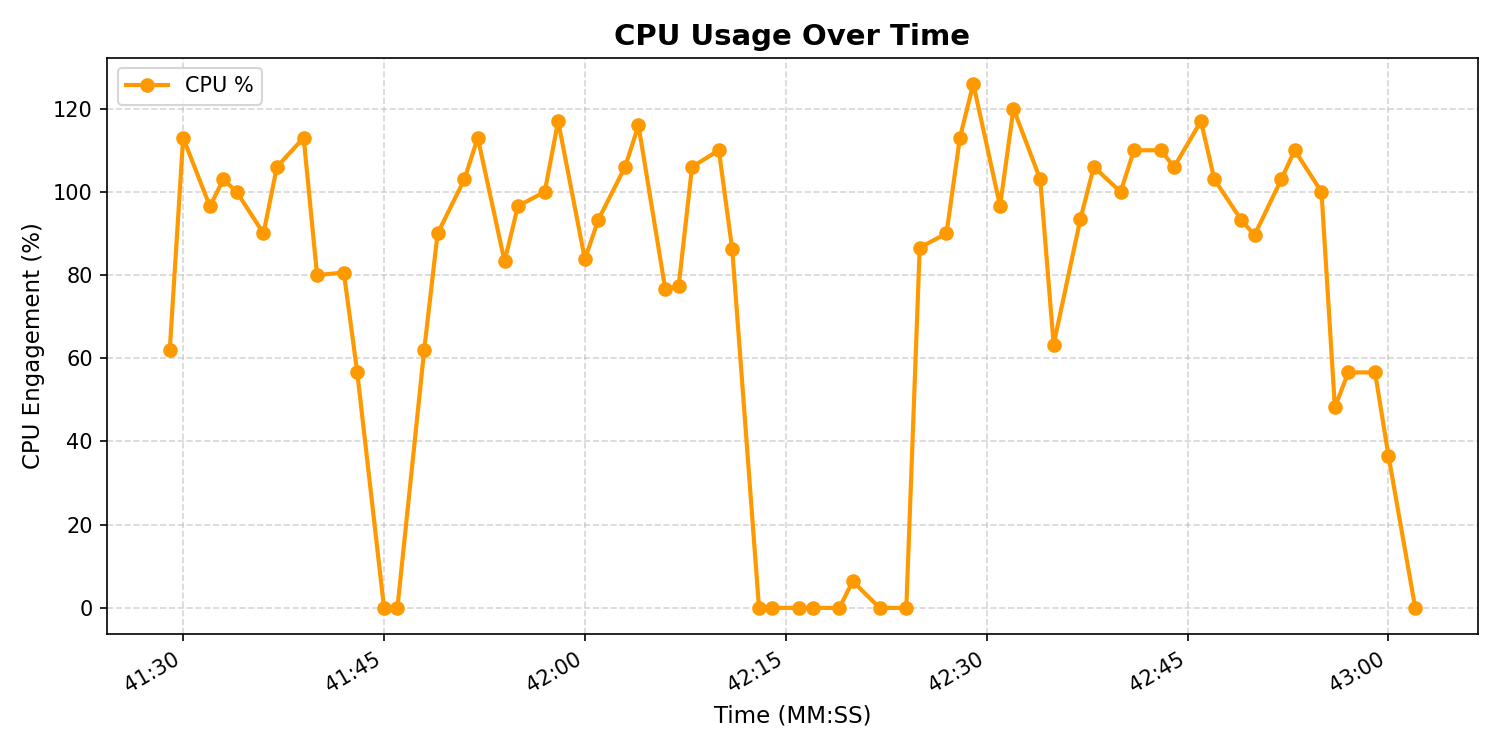
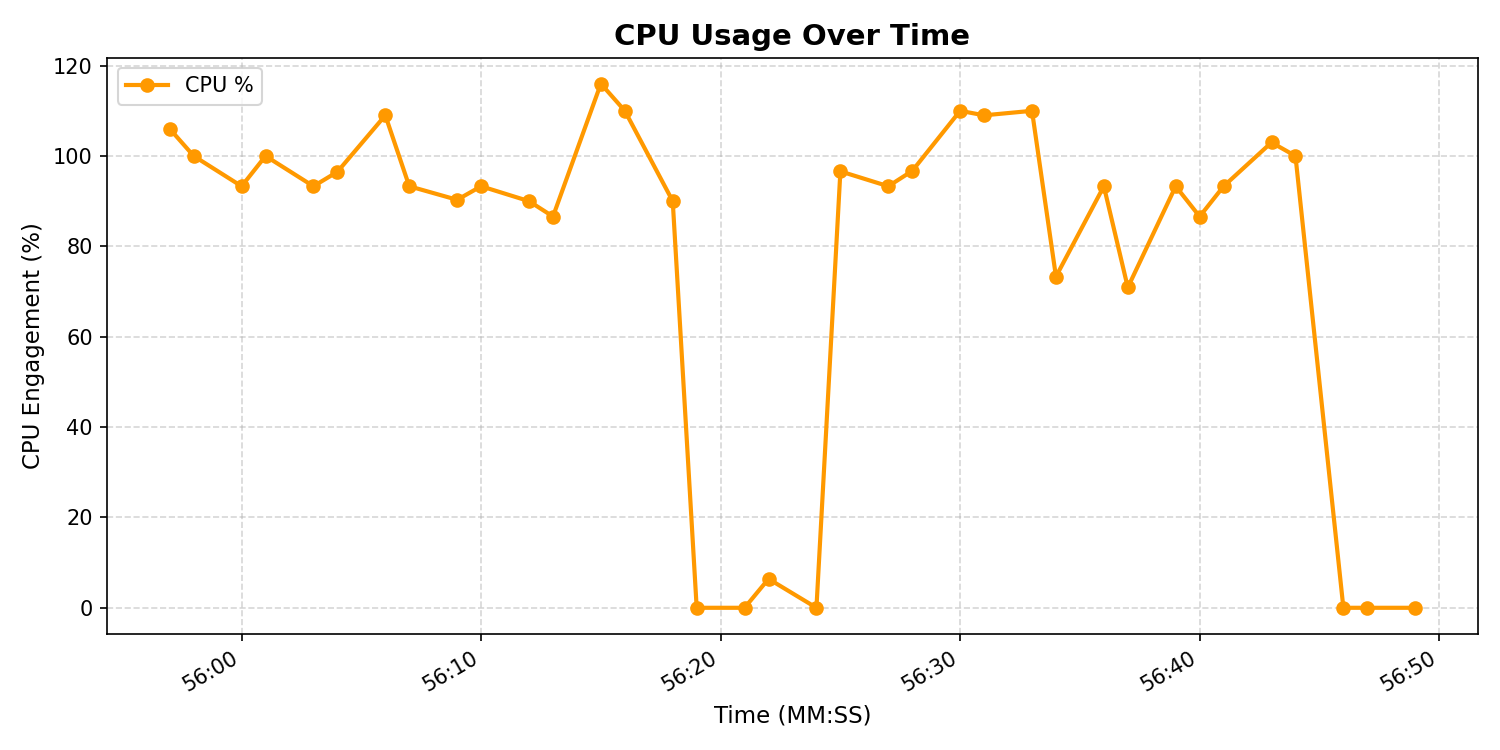
good check - stable-

diff --git a/README.md b/README.md
@@ -24,7 +24,7 @@ Something new:
 - Streaming scene stabilization aware [ plug in ]
 - YOLO obejct detection [ plug in ]
 
-YOLO tested on car class domanin because easy to do:
+YOLO tested on car class domain because easy to do:
 <p align="center">
   <img src="sample/video_samples/demo_short.gif" width="30%" alt="Application Demo"/>
 </p>
@@ -47,17 +47,6 @@ To integrate the plugins, the following files were modified:
 All plugin details are described in the `README.md` file inside the `/yolo` directory.
 ## Testing, Metrics and Upload
 
-Check whether an Android device is connected via USB using:
-
-```bash id="m9jv6p"
-adb devices -l
-```
-Build and install the APK on the connected device with:
-
-```bash id="b6c1tk"
-./gradlew clean installDebug
-```
-
 Testing was performed on a Samsung device (`SM_A566B`).
 
 Convert a standard mobile camera video into a mock device-compatible format for testing purposes.
@@ -71,6 +60,17 @@ Upload the generated sample to the mobile device for testing and lookup operatio
 
 ```bash id="l2v8nd"
 adb push test_mobility2.mov /sdcard/Download/
+```
+
+Check whether an Android device is connected via USB using:
+
+```bash id="m9jv6p"
+adb devices -l
+```
+Build and install the APK on the connected device with:
+
+```bash id="b6c1tk"
+./gradlew clean installDebug
 ```
 
 
@@ -87,11 +87,20 @@ During the stream processing phase, CPU cores (one core needed) utilization incr
 
 Once the stream is stopped, CPU usage drops significantly because streaming and motion detector execution are no longer active.
 
+Monitoring of the CPU core utilization for the modified application with `MotionDetector.kt` enabled.
+
 <p align="center">
-  <img src="sample/metrics/cpu_usage_timeline.png" width="70%" alt="CPU Usage" />
+  <img src="sample/metrics/cpu_usage_timeline2.png" width="70%" alt="CPU Usage" />
 </p>
 
-Memory usage shows several spikes during the streaming phase, but allocations remain controlled and stable. Resource stabilization is clearly visible after the stream stopping phase.
+Monitoring of the original application process without the `MotionDetector.kt` component.
+
+<p align="center">
+  <img src="sample/metrics/cpu_usage_timeline.png" width="70%" alt="CPU Usage Application without MotionDetector" />
+</p>
+
+The comparison shows that the `MotionDetector.kt` computer vision component does not significantly increase CPU core utilization. The solution remains stable and maintains good runtime performance during stream processing.
+
 
 <p align="center">
   <img src="sample/metrics/memory_usage_timeline.png" width="70%" alt="Memory Usage" />
